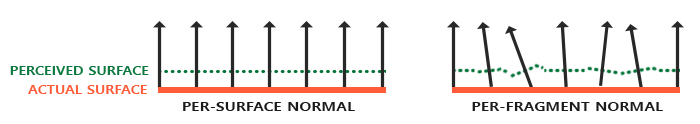
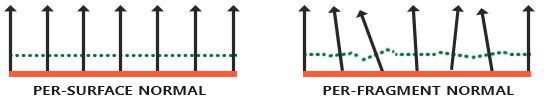
shorten normal mapping part

Changed region(s): [[0.0, 0.0566, 0.9927, 0.7642], [0.062, 0.7925, 0.5274, 0.9057], [0.5894, 0.7925, 0.9617, 0.9057]]

diff --git a/final_report/index.html b/final_report/index.html
@@ -182,16 +182,9 @@
             <table style="width:100%">
                 <tr align="center">
                     <td>
-                        <img src="images/normal_mapping_surfaces.png" align="middle" width="600px" />
+                        <img src="images/normal_mapping_surfaces.png" align="middle" width="500px" />
                     </td>
-                </tr>
-                <br>
-            </table>
-        </div>
-        In OpenGL, normal vectors in normal maps are expressed in tangent space, which is a space local to the surface of a triangle. This relative coordinate system allows normal mapping to be correctly applied no matter the direction of underlying surface. After we read in the normal vectors and construct TBN matrix(T, B, N as row vectors), we can transform these normal vectors into world space and do light calculation. It will look like a real bumpy surface under the illumination of light, although none of these vertices change it's position at all!
-        <div align="middle">
-            <table style="width:100%">
-                <tr align="center">
+
                     <td>
                         <img src="images/normal_mapping_tbn_vectors.png" align="middle" width="300px" />
                         <figcaption align="middle">Tangent space(N is normal vector of surface)</figcaption>
@@ -200,18 +193,7 @@
                 <br>
             </table>
         </div>
-    
-<!--     
-        <div align="middle">
-            <table style="width:100%">
-                <tr align="center">
-                    <td>
-                        <img src="images/normalvec-1.png" align="middle" width="800px" />
-                    </td>
-                </tr>
-                <br>
-            </table>
-        </div> -->
+        In OpenGL, normal vectors in normal maps are expressed in tangent space, which is a space local to the surface of a triangle. This relative coordinate system allows normal mapping to be correctly applied no matter the direction of underlying surface. After we read in the normal vectors and construct TBN matrix(T, B, N as row vectors), we can transform these normal vectors into world space and do light calculation. It will look like a real bumpy surface under the illumination of light, although none of these vertices change it's position at all!
 
         <h3>Parallax Mapping</h3>
         <p>
@@ -246,14 +228,7 @@
                 </table>
             </div>
             Steep parallax mapping takes multiple depth samples from 0 to 1, until we find a sampled depth value that is less than the depth value of the current layer(i.e. blue point is above purple point). The stopping point is then considered as the intersecion position for the vision direction and bumpy surface.<br>
-            <div align="middle">
-                <table style="width:100%">
-                    <tr align="center">
-                        
-                    </tr>
-                    <br>
-                </table>
-            </div>
+
             Parallax Occlusion Mapping takes this idea a step further. Instead of taking the texture coordinates of the first depth layer after a collision, we're going to linearly interpolate between the depth layer after and before the collision. This is similar to the idea of bilinear interpolation.<br><br>
             
             We've implemented all these three method in our code. The heigthmap is also automatically read in by Optifine from <a href="https://www.curseforge.com/minecraft/texture-packs/vanilla-pbr">Vanilla PBR</a>. In fact, height map is stored together with normal map in its fourth channel.
